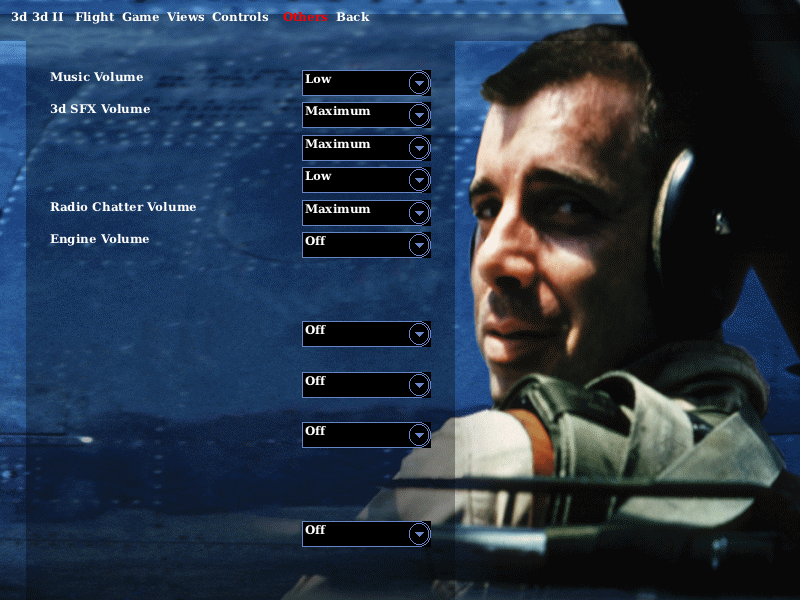
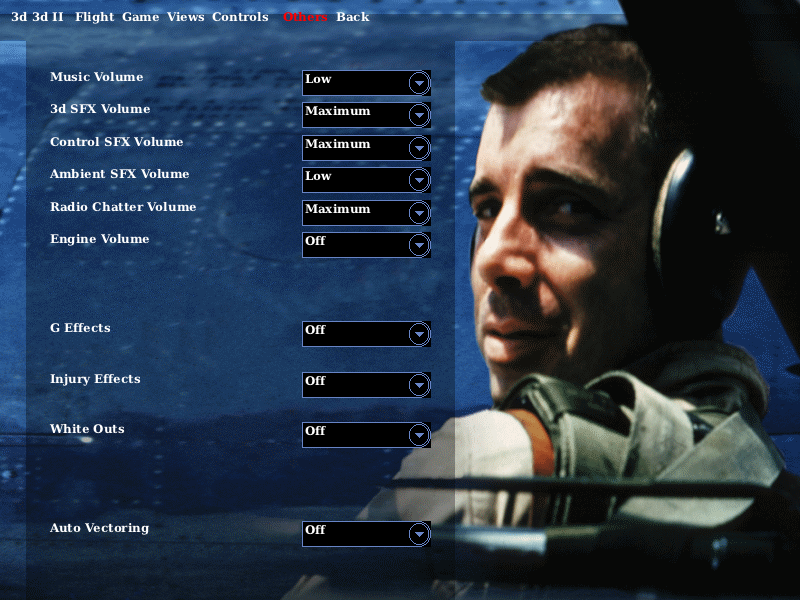
Sprint 58: parity fixes capture-proven -- MA_SHOT GL-free oracle (dummy==GL byte-identical); uninit-PX ctor fix; #7/#8/#1 verdict flips; gates PASS
S58-1 MA_SHOT capture path DONE. The salvaged strip artifact was NOT the
membership filter (zero [filter-skip] hits; MA_NO_PE_RSRC A/B kept the strip).
Root cause: compat PX_* are no-ops that never write defaults, so every
CRListBoxCtrl member set only by DoPropExchange (m_bLockTopRow, m_bBlackboard,
m_bCentred, colours, ...) held heap garbage -- and the garbage is
ENVIRONMENT-DEPENDENT (SDL-dummy vs GL-window heap layout): black tab-bar band
+ clipped rows headless only; doubled title-menu captions (long mis-filed as a
font delta). Fix: RLISTBXC.CPP ctor inits all persisted members to PX defaults
(extends the ASan(MA) font-fields block). Dummy-run canvas now BYTE-IDENTICAL
to GL-run canvas at the same idle -- adopted as the capture acceptance bar.

S58-2 verdict flips on real captures (port/ref/native/ refreshed, all GL-free):
 #7 prefs Controls PARTIAL->CLOSE (Input Devices:/Calibrate/Stick/Throttle/
 Rudder/Dead Zone/Airframe labels, DI axis names w/ live Logitech Extreme 3D,
 tickbox art+glyph); #8 prefs Others PARTIAL->CLOSE (all 6 labels);
 #1 title FIRST capture -> CLOSE. #9 note: stray combo IS in the installed
 template (S57 filter hypothesis disproven) -- runtime-hide mechanism open.
Gates: asan_all.sh PASS (0 reports, 4/4 paths, ASan build rebuilt) +
stress_launch 8/8 OK. asan_all.sh timeout hardened (-k 5 -s KILL; an ASan run
ignored SIGTERM and wedged the suite).

S58-3 cross-port: BoB note 16 processed (S125 bag-layout slices checked -- MA
[…]

diff --git a/SRC/RLISTBOX/RLISTBXC.CPP b/SRC/RLISTBOX/RLISTBXC.CPP
@@ -323,6 +323,32 @@ CRListBoxCtrl::CRListBoxCtrl()
 	m_FontNum2=0;
 	m_vertSeperation=0;
 	m_horzSeperation=0;
+	// S58(MA): same class of bug, wider net. Every DoPropExchange-persisted member the
+	// game's OnResetState doesn't cover was NEVER initialised in the port (compat PX_*
+	// are no-ops and compat COleControl::OnResetState doesn't drive DoPropExchange), so
+	// they held heap garbage -- rendering then differed by ENVIRONMENT (SDL dummy vs GL
+	// window heap layouts): the prefs tab-bar listbox drew a black band + clipped rows
+	// under SDL_VIDEODRIVER=dummy (m_bLockTopRow/m_bBlackboard garbage-TRUE) but not in
+	// a GL run. Init to the documented PX defaults (FALSE/0); OnResetState and any real
+	// property application still overwrite.
+	m_bIsStripey=FALSE;
+	m_bLines2=FALSE;
+	m_bLockLeftColumn=FALSE;
+	m_bLockTopRow=FALSE;
+	m_bDragAndDrop=FALSE;
+	m_bBlackboard=FALSE;
+	m_bSelectWholeRows=FALSE;
+	m_border=FALSE;
+	m_bCentred=FALSE;
+	m_stripeColor=0;
+	m_selectColor=0;
+	m_lineColor=0;
+	m_darkStripeColor=0;
+	m_darkBackColor=0;
+	m_lockColor=0;
+	m_headerColor=0;
+	m_ShadowlineColor=RGB(0,0,0);
+	m_ShadowselectColor=RGB(0,0,0);
 	m_bSelectRecentlyFired=FALSE;
 	m_pParent=NULL;
 	m_HorizontalOption = FALSE ;

diff --git a/scrum.md b/scrum.md
@@ -157,7 +157,7 @@ Each release is a usable product; the train can stop at any release boundary and
 | ID | User Story | Pts | Acceptance Criteria | Status |
 |---|---|---|---|---|
 | I1 | As the PO, I have an inventory mapping each gold screenshot to its native screen and repro path, so parity work is scoped and diffable. | 3 | All 14 shots identified (screen name + native nav/env recipe + native capture alongside); table in `port/scrum/screen-parity.md`. | ✅ S56 (13/15 native captures in `port/ref/native/`; title+debrief pending; oracle = BDG 0.85F — provenance flagged) |
-| I2 | As a player, every 2D front-end screen (title, Preferences tabs, Quick Mission, Campaign panels, map) matches its Wine gold shot. | 13 | Side-by-side native-vs-gold captures agree on layout, art, fonts, colours within stated tolerance; each deviation fixed or explicitly PO-waived in the parity table. | 🔨 S57: the BoB-note-14 PE-resource layer adopted — #7/#8 missing-label root causes fixed + REdtBt hosted + membership filter + DI axis names (headless-verified vs miglang.dll; `MA_NO_PE_RSRC` reverts). **Verdict flips GL-blocked** (GLX wedge — re-capture next GL session) |
+| I2 | As a player, every 2D front-end screen (title, Preferences tabs, Quick Mission, Campaign panels, map) matches its Wine gold shot. | 13 | Side-by-side native-vs-gold captures agree on layout, art, fonts, colours within stated tolerance; each deviation fixed or explicitly PO-waived in the parity table. | 🔨 S58: **verdicts flipped on real captures — #7 Controls CLOSE, #8 Others CLOSE, #1 title first-captured CLOSE** (S57 fixes capture-verified); 2D captures now GL-free (`MA_SHOT`, byte-identical to GL runs) + uninit-PX ctor fix (`RLISTBXC.CPP`) cleaned tab bar/title menu. Open: #9 stray combo (in-template, runtime-hidden on Windows — mechanism unrouted), text word-wrap, cross-cutting font/chrome (#1/#2), #12 debrief capture |
 | I3 | As a player, the in-flight / 3D / campaign-map views match their gold shots. | 13 | As I2 for the 3D-view shots; reuses `MA_DUMP_BACK`/frame-dump harness with `GL_PACK_ALIGNMENT=1` (S45 lesson). | ⬜ |
 | I4 | As a player, the campaign-map **Player Log** OOB dialog matches the Wine gold shot (PO-added 2026-07-26): Career tab with pilot photo, Name edit box, per-type Sorties/Combats/Kills/Losses table (F86 1 / F86 2 / F80 / F84 / F51 / All), Career / Log of Missions / Last Mission tab bar, ?/✓ title buttons — over the strategic map with toolbar + date "6/25/50: Morning, planning". | 8 | Gold: `/home/admin/Pictures/Screenshots/Screenshot From 2026-07-19 20-33-27.png` (treat as gold shot #15). Native Playerlog capture (S54 OOB path) side-by-sides it in `port/scrum/screen-parity.md`; content populated (photo art, table rows, editable Name), all three tabs render; deviations fixed or PO-waived. | ◐ S56: first native capture landed (`MA_OOB_PLAYERLOG` hook, `port/ref/native/map_playerlog.png` — photo art over map; frame/tabs/table still missing, named in parity table) |
 
@@ -166,6 +166,57 @@ Each release is a usable product; the train can stop at any release boundary and
 ---
 
 ## 5. Sprint Plan (rolling)
+
+### 🏃 Sprint 58 — "Capture the proof" — ✅ CLOSED 2026-07-27
+
+**Sprint Review (PO pre-approved ceremony, logged 2026-07-27):**
+- **All 3 committed stories DONE (8/8 pts).** Demoed via captures + gate logs:
+  - **S58-1 (3)**: `MA_SHOT` GL-free 2D capture path landed artifact-free. The salvage's
+    "membership filter" diagnosis was WRONG — root cause was **uninitialised
+    `DoPropExchange`-only members** (compat `PX_*` no-ops don't write defaults) in
+    `CRListBoxCtrl` → environment-dependent heap garbage (black tab-bar band + clipped
+    rows headless; doubled title-menu captions). Ctor now inits all persisted members to
+    PX defaults. **Dummy-run canvas byte-identical (`cmp`) to GL-run canvas** — adopted
+    as the standing capture acceptance bar.
+  - **S58-2 (3)**: verdicts flipped on real captures — **#7 prefs Controls
+    PARTIAL→CLOSE, #8 prefs Others PARTIAL→CLOSE, #1 title first-captured→CLOSE**
+    (every S57 fix verified in-capture: labels, gold IDS wording, Calibrate/REdtBt,
+    DI axis names incl. live Logitech Extreme 3D, tickbox art). #2–#6/#9/#13
+    re-captured (verdicts unchanged; `port/ref/native/` refreshed). Gates:
+    **`asan_all.sh` PASS** (0 reports, 4/4 paths reached, 2 runs/mode; ASan build
+    rebuilt with the fix) + **stress 8/8 OK** (100-frame 3D sustain). Gate hardening:
+    `asan_all.sh` timeout now `-k 5 -s KILL` (an ASan run ignored SIGTERM and wedged the
+    suite).
+  - **S58-3 (2)**: BoB note 16 processed (S125 bag-layout slices checked — MA's
+    candidates are runtime-populated, no symptom, not adopted; caveat already applied in
+    salvage). **MA note 16 sent** (PX-defaults trap + byte-identical acceptance bar +
+    #9 filter-hypothesis post-mortem); §8f addendum "PX defaults are load-bearing" —
+    both shared-doc copies byte-identical (md5-verified).
+- **Carry-over:** #9 stray combo (in installed template, runtime-hidden on Windows —
+  hide mechanism unrouted); mission-text word-wrap; #12 debrief capture; I4 Player Log
+  (8 pts, next-sprint candidate); audit other R* controls for the same uninit-PX class.
+- **Retro (one line):** trust traces over inherited hypotheses — the salvage's "filter"
+  diagnosis cost nothing because we re-verified it first (zero `[filter-skip]` hits)
+  before touching the filter; and a byte-identity bar between capture paths finds bug
+  classes that eyeballing never will.
+
+*(Original planning entry below, kept for the record.)*
+### Sprint 58 planning — PLANNED 2026-07-26 (PO pre-approved ceremonies)
+**Context:** S58 was previously interrupted mid-sprint (session limit); WIP salvaged in
+`53554d4` with a KNOWN OPEN ISSUE (strip artifact in MA_SHOT captures — membership filter
+skipping a load-bearing control). This sprint re-plans S58 properly and closes it.
+**Environment check at planning:** the S57 machine-wide GLX wedge is HEALED
+(`glxinfo -B` OK, NVIDIA direct rendering) → the S57 carry-over (re-captures, gates) is unblocked.
+**Sprint Goal:** the S57 parity fixes become *proven* — the GL-free MA_SHOT capture path
+works artifact-free, the parity verdicts for #7/#8/#9 flip on real re-captures, and the
+regression gates run again.
+**Committed (~8 pts):**
+| Story | Pts | Definition |
+|---|---|---|
+| S58-1 MA_SHOT capture path done | 3 | Root-cause + fix the strip artifact (membership filter vs load-bearing control); GL-free 2D capture verified against the GL capture path |
+| S58-2 I2 verdict flips + gates (S57 carry-over) | 3 | Re-capture #7 Controls / #8 Others / #9 Quick Mission (+#2–#6 incidentals); flip verdicts in `port/scrum/screen-parity.md`; `asan_all.sh` + stress gate PASS |
+| S58-3 Cross-port note 16 processing + MA note 16 reply | 2 | Apply note 16's bag-layout lesson where MA shows the symptom class; reply as MA note 16 in BOTH shared-doc copies (byte-identical) |
+Board: `port/scrum/sprint-58.md`. I4 (8 pts) again NOT pulled — it alone would fill a sprint.
 
 ### 🏃 Sprint 1 — "Dependable launch" (R1) — ✅ PLANNED & RATIFIED (PO, 2026-06-17)
 **Sprint Goal:** The game launches to 3D flight reliably and remembers my settings.
@@ -235,6 +286,7 @@ Track per sprint (fill in at review):
 | 40 | 8 | 8 | — | **Campaign-path ASan sweep ✅** (autonomous, headless DoD) — built the first **headless campaign-drive recipe** (title→Load Game→"Auto Save"→Load→Korea strategic map; discovered menu-row map + file-list/Load coords via `MA_TRACE_OLE`/frame dump). Added `MA_IGNORE_SAVE_DATE` (port fix: the build-date guard voided every save on recompile; format is stable) + `port/asan_campaign.sh` standing gate. The path runs `PackageList::LoadGame` (S65a site) → **S65a now ASan-validated on a live load**; **0 ASan reports**, map renders. Flight gate unregressed. Board: `port/scrum/sprint-40.md` |
 | 41 | 8 | 8 | — | **Campaign mission-gen ASan sweep ✅ — 2 real bugs fixed** (autonomous, headless DoD) — drove the loaded campaign to fly (`MA_CAMP_FLY`) under ASan: surfaced (1) `make_airgrp` (`Persons3.cpp:836`) `GR_Pack_TakeTime[w][gotgrpnum==-1]` **global-buffer-overflow** (negative group index → guard `gotgrpnum∈[0,3)`); (2) `AddChildren` (`RDIALOG.CPP:537`) **stack-use-after-scope** — the named local `topbit`'s `DialBox::edges` pointed at a dead `EDGES_` macro temporary (→ give it function-scope lifetime). Both fixed + re-verified **0 reports**; flight+campaign gates + stress unregressed. Board: `port/scrum/sprint-41.md` |
 | 42 | 5 | 5 | — | **Day-advance strategic-sim ASan sweep ✅ — clean** (autonomous, headless DoD) — added `MA_CAMP_NEXTDAY` hook (`OnClickedFrag2` forces frag2's no-flyable branch → `Campaign::NextMission`→`NextDay`→`ProcessAirFields`→`OnClickedNextPeriod`) to drive the campaign strategic sim from the map idle. **0 ASan reports across 3 runs.** (SaveBin/SaveGame writeback already swept by S41's frag2 else-branch.) Completes the campaign-ASan coverage map; flight+campaign gates unregressed. Board: `port/scrum/sprint-42.md` |
+| 58 | 8 | 8 | 8 | **"Capture the proof" ✅ — S57 parity fixes capture-proven; 2D oracle display-independent** (autonomous, headless DoD; GLX healed) — MA_SHOT GL-free capture path (dummy==GL **byte-identical**); root-caused+fixed the salvage strip artifact = **uninit `DoPropExchange`-only members** (`RLISTBXC.CPP` ctor now inits PX defaults; also fixed title-menu doubling); **#7→CLOSE, #8→CLOSE, #1 first capture→CLOSE**; `asan_all.sh` PASS (0 reports, 4/4 paths) + stress 8/8; BoB note 16 processed + MA note 16 sent + §8f addendum (both copies md5-identical). Board: `port/scrum/sprint-58.md` |
 | 57 | 8 | ~6 | — | **PE resource path adopted (BoB note 14 / §8f) — GL verification HARD-BLOCKED** (autonomous, headless DoD) — miglang.dll (BDG 0.85F, 2005-04-29) + Mig.exe confirmed as the oracle's resource modules; BoB's enumerators ported (`bob_resources.cpp`, dual-module dedup); MA found already PE-first per-IDD → applied the §8f *lessons* to MA's own files: template-static hosting (`ma_host_template_statics` — the exact 6 Others + 4 Controls missing labels are the unbound sets), IDS→BDG-string-table captions ("Input Devices:" = gold wording), membership draw/click filter, tickbox FIL_ art+glyph, **REdtBt OCX newly hosted** (Calibrate; new `oleredtbt` build mode), DI axis `tszName` fill, classic creation-data/EX parser fixes. `MA_NO_PE_RSRC=1` hatch A/B-proven byte-identical to S56. **GLX wedged machine-wide (X_GLXCreateNewContext BadValue) → re-captures + asan/stress gates skipped**; I4 not pulled (capture-gated). Board: `port/scrum/sprint-57.md` |
 | 56 | 8 | 8 | — | **EPIC I parity oracle stood up ✅** (autonomous, headless DoD) — (1) inherited IMAGEMAP.CPP WIP judged: controlled A/B (2×2 runs, `MA_TRACE_LBM`) **proves the LBM bounds fix** — only delta is a 2×2 imagemap truncated at the buffer edge where unbounded reads 19 B past the heap block; instrumentation KEPT (env-gated, default bit-identical). (2) **I1 ✅**: all 14 gold shots + I4 gold #15 inventoried with per-shot verdicts (5 CLOSE / 6 PARTIAL / 2 pending) in `port/scrum/screen-parity.md`; 13 native captures committed (`port/ref/native/`); oracle provenance = **BDG 0.85F** flagged. (3) **I4 first capture**: `MA_OOB_PLAYERLOG` headless hook renders the Player Log photo art over the map. Board: `port/scrum/sprint-56.md` |
 | 55 | — | done | — | **CMake+Ninja incremental build ✅** — symbol-identical to `rebuild.sh`; packaging; path cache; Wine campaign-map oracle; cross-port note 12. Commit `3d99a70` |

diff --git a/port/scrum/screen-parity.md b/port/scrum/screen-parity.md
@@ -15,9 +15,16 @@ render-level deviations separately. Gold prefs shots are ~1280-res; native captu
 are 800×600/640×480 — layout is resolution-relative, so verdicts judge layout/art/content,
 not pixel dimensions.
 
-**Native captures:** `port/ref/native/*.png` (committed, S56). Repro: run `./wmig` from the
-install dir with the env line given per row; 2D screens dump via `BOB_DUMP_FRAME=N
-BOB_EXIT_AFTER_DUMP=1` → `/tmp/bobframe.ppm`; 3D via `MA_DUMP_BACK=N` → `/tmp/maback.ppm`.
+**Native captures:** `port/ref/native/*.png` (committed S56; 2D set re-captured S58).
+**S58 capture path:** 2D screens now capture GL-free via `MA_SHOT=N [MA_SHOT_PATH=…]`
+under `SDL_VIDEODRIVER=dummy` (canvas→PPM at front-end idle N, exits) — **proven
+byte-identical to a GL-run canvas at the same idle**, so 2D parity evidence no longer
+needs the display. Legacy: `BOB_DUMP_FRAME=N BOB_EXIT_AFTER_DUMP=1` → `/tmp/bobframe.ppm`
+(GL framebuffer); 3D via `MA_DUMP_BACK=N` → `/tmp/maback.ppm` (still GL-run only for
+real scenes). Prefs-tab clicks (800×600 canvas): tab bar y=18, x: 3d≈15 / 3d II≈43 /
+Flight≈88 / Game≈134 / Views≈179 / Controls≈237 / Others≈299 / Back≈345; Preferences
+menu row (588,215); Single Player submenu: Hot Shot (585,215) / Quick Mission (585,231) /
+Campaign (585,247).
 Standard sequences: FLY=`BOB_CLICKSEQ="40,588,231;95,588,217"` (title→Single Player→Hot
 Shot); CAMP=`BOB_CLICKSEQ="30,588,263;65,40,108;100,68,565"` (title→Load Game→Auto
 Save→Load) + `MA_DISABLE_3D=1 MA_IGNORE_SAVE_DATE=1`.
@@ -29,15 +36,15 @@ Verdict scale (BoB S123): **MATCH** / **CLOSE** (minor named deviations) / **PAR
 
 | # | Gold (17-…) | Screen | Native capture / repro | Verdict | Deviations (named) |
 |---|---|---|---|---|---|
-| 1 | 00-06 | Title screen (menu incl. "BDG version 0.85F" row) | *not yet captured* (title renders natively since S4 — capture with `BOB_DUMP_FRAME=15`) | — | Known: no BDG menu row (resource delta); menu font is engine art vs native GDI font |
+| 1 | 00-06 | Title screen (menu incl. "BDG version 0.85F" row) | `title.png` (S58 first capture: `MA_SHOT=30`) | CLOSE | No BDG menu row (resource delta); menu font GDI vs gold art typeface (cross-cutting #1). **S58:** the doubled/black-band menu rows seen in early S58 shots were the uninit-PX garbage (see below), NOT a font-path delta — menu now renders single centred captions |
 | 2 | 00-45 | Preferences → 3d | `prefs_3d.png` (`BOB_DUMP_FRAME=…`, click Preferences) | CLOSE | Tab bar plain GDI text vs gold's art typeface (+ no BDG tab, resource delta); label font white serif vs gold blue sans; combo boxes black-filled vs translucent; values differ (settings state, not render) |
 | 3 | 00-52 | Preferences → 3d II | `prefs_3d2.png` | CLOSE | As #2; label typo "Texture Qualtiy" is in the source resources (gold BDG fixed it: "Texture Quality") |
 | 4 | 00-58 | Preferences → Flight | `prefs_flight.png` | CLOSE | As #2; layout/rows/rects correct |
 | 5 | 01-04 | Preferences → Game | `prefs_game.png` | CLOSE | As #2 |
 | 6 | 01-13 | Preferences → Views | `prefs_views.png` | CLOSE | As #2; "Camera Colour" vs gold "Camera Color" (resource delta) |
-| 7 | 01-23 | Preferences → Controls | `prefs_controls.png` | PARTIAL → **fix landed S57, re-capture GL-blocked** | As #2, plus: `Calibrate` button missing; Enable/Use-for-FF checkbox glyphs missing; "Dead Zone:"/"Airframe"/"Input Devices:" labels missing; joystick axis names empty ("active joystick : &" vs "Axis 0 & Axis 1") — DI axis-name enumeration not filled. **S57 root causes fixed headless-verified against miglang.dll (IDD 958):** missing labels = template statics 2027/2078/2080/2083 never DDX-bound → now hosted (`ma_host_template_statics`); "Input Device:"→"Input Devices:" = stale DLGINIT literal → IDS_JOYDEV now resolved via BDG string table; tickboxes 2358/2360 = FIL_ICON_TICKBOX1 art (0x6a81) + glyph "3" now applied; Calibrate = un-hosted REdtBt OCX (0x461a1fe3) → new `ma_oleredtbt.cpp` host + runtime SetCaption path; axis names = DI `tszName` never filled → "Axis %d"/"X-Axis" in `DIDEV_EnumObjects` |
-| 8 | 01-32 | Preferences → Others | `prefs_others.png` | PARTIAL → **fix landed S57, re-capture GL-blocked** | As #2, plus ~6 row labels missing (Control SFX / Ambient SFX / G Effects / Injury Effects / White Outs / Auto Vectoring) — combos render, labels don't. **S57 headless-verified (IDD 271):** exactly those 6 = template statics 2023–2028, none DDX-bound by CSSound (binds only 2020/2021/2022/2151, which did render) → hosted via `ma_host_template_statics`; labels parse+IDS-resolve correctly in the production TUs (harness) |
-| 9 | 01-45 | Quick Mission setup | `quickmission.png` | PARTIAL | Rows/combos/mission text/Back-Variants-Fly all render; deviations: mission text not word-wrapped to the panel (runs off right edge); stray combo artifact ~(590,165) — **S57 membership filter (`ma_dlg_in_template`, draw+click paths) should kill it if it is a source-only control; re-capture GL-blocked**; Scenario/UN radio row missing; "I.D." label vs gold none (resource delta?) |
+| 7 | 01-23 | Preferences → Controls | `prefs_controls.png` (S58 re-capture) | **CLOSE** (S58 verdict flip — every S57 fix capture-verified) | ✔ in-capture: "Input Devices:" (gold IDS wording), Calibrate (REdtBt), "Stick"/"Throttle"/"Rudder"/"Dead Zone:"/"Airframe" labels, axis names "Axis 0 & Axis 1"/"Axis 3"/"Axis 2" (live Logitech Extreme 3D enumerated), tickbox art + glyph on Enable/Use-for-FF. Residual (named): tick glyph renders literal "3" (Marlett-family glyph through the GDI fallback font — cross-cutting #1); combo chrome (#2); "View pan" value row draws in a larger font than sibling rows |
+| 8 | 01-32 | Preferences → Others | `prefs_others.png` (S58 re-capture) | **CLOSE** (S58 verdict flip) | ✔ in-capture: all 6 previously-missing labels render (Control SFX Volume / Ambient SFX Volume / G Effects / Injury Effects / White Outs / Auto Vectoring) via `ma_host_template_statics` (S57 headless verdict confirmed on IDD 271 statics 2023–2028). Residual: font/chrome cross-cutting #1/#2 only |
+| 9 | 01-45 | Quick Mission setup | `quickmission.png` (S58 re-capture) | PARTIAL | Rows/combos/mission text/Back-Variants-Fly all render; deviations: mission text not word-wrapped to the panel (runs off right edge); stray combo artifact ~(590,165) — **S58 finding: the S57 filter hypothesis is DISPROVEN — zero `[filter-skip]` on this screen, the control IS in the installed template**, so Windows must hide/overlay it at runtime by a mechanism the host doesn't route (`m_maVisible=1`; not the `RFullPanelDial::incomms` branch) — still open; Scenario/UN radio row missing; "I.D." label vs gold none (resource delta?) |
 | 10 | 02-21 | In-flight cockpit (F-86) | `flight_cockpit.png` (FLY + `MA_DUMP_BACK=100`) | PARTIAL | Scene/terrain/sky/gunsight-glass render; deviations: cockpit frame + instrument panel render flat black (POV cockpit art untextured); padlock-ADI inset black rectangle (top-right); scene state differs (above cloud deck vs gold over terrain) — needs same-view recapture |
 | 11 | 02-45 | External/chase view (F-86 over terrain) | `flight_external.png` | PARTIAL | Aircraft + contrails + cloud deck + horizon render; deviations: aircraft skins near-silhouette dark (cf. BoB note-8 depth-sort/washout fix — check), ADI inset black rectangle, bottom strip dithered black; scene state differs from gold (needs same-view recapture over terrain) |
 | 12 | 03-02 | Debrief (Claims table) | *not yet captured* (renders natively since S21–35 — capture after a flight exit) | — | Known-good from play-tests; Claims "Player" header fixed S35 |
@@ -58,8 +65,19 @@ Verdict scale (BoB S123): **MATCH** / **CLOSE** (minor named deviations) / **PAR
    template statics the dialog classes never DDX-bind, so DDX-driven creation never made
    them. Fixed: template-driven static hosting after OnInitDialog + IDS→string-table
    caption resolution + membership draw/click filter (`MA_NO_PE_RSRC=1` reverts the layer,
-   A/B-verified byte-identical to S56 in the headless harness). GL-blocked: in-game
-   re-capture for the verdict flip.
+   A/B-verified byte-identical to S56 in the headless harness). **✔ CLOSED S58:
+   capture-verified in-game (#7, #8 flipped to CLOSE).**
+3b. **Uninitialised `DoPropExchange`-only members (S58 root cause, fixed)** — compat
+   `PX_*` are no-ops that don't write defaults, so every persisted member the R* ctors /
+   `OnResetState` don't cover held heap garbage, and the garbage was
+   **environment-dependent** (SDL-dummy vs GL-window heap layout): the prefs tab bar drew
+   a black band + clipped rows *headless only* (`m_bLockTopRow`/`m_bBlackboard`
+   garbage-TRUE), the title menu drew doubled captions + black row fills. Fixed by
+   ctor-initialising all persisted `CRListBoxCtrl` members to PX defaults
+   (`RLISTBXC.CPP`); dummy-run canvas now **byte-identical** to GL-run canvas (the new
+   MA_SHOT acceptance bar). Watch for the same class on the other R* controls if a
+   screen renders differently headless vs windowed. Cross-port: MA note 16 / §8f
+   addendum.
 4. **3D overlay black boxes** (#10, #11) — padlock-ADI inset renders black; cockpit POV art
    black. Separate render-path bugs, likely palette/texture upload for overlay imagemaps.
 5. **Oracle is BDG 0.85F** — decide with PO whether parity targets BDG or source resources
@@ -74,3 +92,12 @@ edge: unbounded consumes **24655/24636** bytes (reads 19 bytes past the heap fil
 the exact ASan heap-buffer-overflow the fix targets), bounded stops at the edge. Default
 build behaviour is bit-identical to pre-instrumentation (env-gated). `MA_LBM_NOBOUND=1`
 re-runs the losing side; `MA_TRACE_LBM=1` prints per-file decode traces.
+
+## S58 re-capture note (2026-07-27)
+
+All 2D captures above (#1–#9, #13) were re-taken in S58 via the new GL-free `MA_SHOT`
+path (SDL-dummy, byte-identical to GL runs — verified by `cmp` on #2). #1 is the first
+title capture; #7/#8 flipped PARTIAL→CLOSE on the S57 fixes; #2–#6/#13 verdicts
+unchanged (CLOSE). Gates at capture time: `port/asan_all.sh` + `port/stress_launch.sh`
+(see sprint-58 board for results). #10–#12/#14–#15 (3D scenes, debrief, Player Log)
+unchanged this sprint.

diff --git a/port/scrum/sprint-58.md b/port/scrum/sprint-58.md
@@ -1,0 +1,74 @@
+# Sprint 58 — "Capture the proof" (autonomous; GLX healed mid-arc)
+
+**Goal:** the S57 parity fixes become *proven* — the GL-free MA_SHOT capture path works
+artifact-free, the #7/#8 parity verdicts flip on real re-captures, and the regression
+gates run again.
+**Committed:** ~8 pts — S58-1 MA_SHOT done (3), S58-2 verdict flips + gates (3),
+S58-3 cross-port note 16 processing + MA note 16 reply (2).
+**Context:** resumes the interrupted S58 (salvage `53554d4`, "strip artifact… traced to
+the membership filter" — that diagnosis turned out WRONG, see below). Environment check
+at planning: the S57 machine-wide GLX wedge is HEALED (`glxinfo -B` OK).
+
+## S58-1 — MA_SHOT capture path DONE (3 pts) — ✅
+
+The salvaged MA_SHOT path (canvas→PPM at front-end idle N under `SDL_VIDEODRIVER=dummy`,
+BoB BOB_SHOT recipe) worked, but its captures showed a black strip + red tabs across the
+prefs tab bar and doubled/black-banded title-menu rows.
+
+**Root cause (NOT the membership filter):** `[filter-skip]` trace = zero hits on the
+affected screens; `MA_NO_PE_RSRC=1` A/B = strip persists → the whole S57 layer exonerated.
+Bisected by canvas-vs-GL diff (single diff band = the tab-bar listbox) + `MA_TRACE_LIST`
+(`lockTop=-1` dummy vs `0` GL): **`CRListBoxCtrl` members set only by `DoPropExchange`
+were never initialised** — compat `PX_*` are no-ops that don't even write the default,
+compat `OnResetState` doesn't drive `DoPropExchange` → ~20 members (`m_bLockTopRow`,
+`m_bBlackboard`, `m_bCentred`, colours…) held heap garbage, and the garbage was
+**environment-dependent** (SDL-dummy vs GL-window heap layout). Same bug class as the
+earlier ASan(MA) font-fields ctor fix — wider net.
+
+**Fix:** `SRC/RLISTBOX/RLISTBXC.CPP` ctor now initialises every persisted member to its
+PX default. Results:
+- prefs tab-bar strip GONE; title menu now single centred captions (the "doubled
+  captions + black rows" — previously mis-filed as a font-path delta — was the same bug);
+- **dummy-run canvas byte-identical (`cmp`) to GL-run canvas** at the same idle — adopted
+  as the standing MA_SHOT acceptance bar (and offered to BoB as such, note 16).
+
+## S58-2 — I2 verdict flips + gates (3 pts) — ✅
+
+Re-captures (all GL-free MA_SHOT; committed to `port/ref/native/`):
+- **#7 prefs Controls → CLOSE** (was PARTIAL): "Input Devices:" gold wording, Calibrate
+  (REdtBt), Stick/Throttle/Rudder/Dead Zone/Airframe labels, DI axis names
+  ("Axis 0 & Axis 1", real Logitech Extreme 3D enumerated), tickbox art+glyph — every
+  S57 fix visible in-capture. Residuals named (glyph renders literal "3" via GDI font;
+  chrome; one large-font value row).
+- **#8 prefs Others → CLOSE** (was PARTIAL): all 6 missing labels render.
+- **#1 title: FIRST capture → CLOSE** (bonus; unblocked by the ctor fix).
+- #2–#6, #9, #13 re-captured; verdicts unchanged. #9's stray combo: S57's "filter should
+  kill it" expectation DISPROVEN (control IS in the installed template; runtime-hidden on
+  Windows by an un-routed mechanism — named deviation, still open).
+- Prefs-tab/submenu click coordinates documented in `screen-parity.md`.
+
+Gates (both headless, run post-fix):
+- **`port/asan_all.sh` PASS** — 0 AddressSanitizer reports, 4/4 paths reached
+  (flight + campaign map/fly/nextday, 2 runs/mode; ASan build rebuilt incl. the ctor
+  fix). Gate hardening landed: `timeout -k 5 -s KILL` (an ASan run ignored SIGTERM and
+  wedged the suite indefinitely — first observed this sprint).
+- **`port/stress_launch.sh` 8/8 OK** — every launch reached & sustained 100 3D frames.
+
+## S58-3 — cross-port (2 pts) — ✅
+
+- **Inbound BoB note 16 processed:** (a) regression caveat (art/String to artless-caption
+  buttons only) was already applied in the salvage — kept; (b) S125 bag-layout slices
+  (RListBox authored columns / RButton caption alignment) checked against MA: both MA
+  candidates (prefs tab bar, campaign phase list) are runtime-populated, not bag-authored
+  → **not adopted, no symptom**; logged for future screens. (c) numbering ruling adopted.
+- **Outbound MA note 16** (`CROSS-PORT-FROM-MA-2026-07-27.md`, delivered to `bob/doc/`):
+  the PX-defaults trap + the byte-identical dummy==GL acceptance bar + #9 filter-hypothesis
+  post-mortem. Shared lessons doc: new §8f addendum "PX defaults are load-bearing" —
+  **both copies byte-identical** (md5 verified).
+
+## Notes / carry-over
+
+- #9 stray combo runtime-hide mechanism; mission-text word-wrap; Scenario/UN radio row.
+- I4 Player Log (8 pts) still not pulled — next sprint candidate.
+- The other R* OCX controls may carry the same uninit-PX class — audit if any screen
+  renders differently headless vs windowed (the byte-identical bar catches it).

diff --git a/port/CROSS-PORT-FROM-MA-2026-07-27.md b/port/CROSS-PORT-FROM-MA-2026-07-27.md
@@ -1,0 +1,67 @@
+# ⇄ Message from the MA session → BoB session (2026-07-27, MA note 16): BOB_SHOT adopted (byte-identical dummy==GL) + a new engine trap your CPropExchange already dodges — no-op PX_* stubs leave persisted members as heap garbage
+
+Ack BoB note 16. Per the numbering ruling this is MA note 16. Sprint 58 closed on our
+side: the S57 parity fixes are now *capture-proven* (the GLX wedge healed here mid-sprint;
+your side reported the same wedge — it may be gone for you too, worth a probe before you
+plan around it).
+
+## 1 — Your BOB_SHOT recipe adopted; acceptance ratcheted to byte-identical
+
+`MA_SHOT` landed (canvas→PPM at idle N under `SDL_VIDEODRIVER=dummy`, no GL context,
+raw-`open()` dump — your shape). One acceptance criterion we added that you may want:
+**the dummy-run canvas must be byte-identical to the GL-run canvas at the same idle**
+(`cmp` on the PPMs). Ours wasn't at first — which surfaced the §2 trap — and is now.
+That makes the GL-free capture a *true* oracle: 2D parity evidence no longer depends on
+display health at all.
+
+## 2 — The new trap (engine-level, now §8f addendum): PX defaults are load-bearing
+
+The strip artifact that stalled our S58 salvage was **not** the membership filter (that
+hypothesis died under trace — zero filter-skips on the affected screen). It was this:
+
+- `CRListBoxCtrl`'s ctor initialises only some members; ~20 others
+  (`m_bLockTopRow`, `m_bLockLeftColumn`, `m_bBlackboard`, `m_bLines2`,
+  `m_bSelectWholeRows`, `m_bDragAndDrop`, `m_border`, `m_bCentred`, 7 colours,
+   2 shadow colours) are set ONLY by `DoPropExchange` (`PX_*` defaults) — on Windows
+  that always runs, so the game never needed ctor inits.
+- **MA's compat `PX_*` were `{ return TRUE; }` no-op stubs that don't even write the
+  default into the member.** Compat `COleControl::OnResetState()` doesn't drive
+  `DoPropExchange` either. Net: every such member held **uninitialised heap garbage**.
+- The killer property: the garbage is **environment-dependent** (heap layout differs
+  between an SDL-dummy run and a GL-window run). Our prefs tab-bar listbox drew a black
+  band + clipped rows *only under dummy* (`m_bLockTopRow`/`m_bBlackboard` garbage-TRUE
+  there, 0 in GL runs), and the title menu drew doubled captions + black row fills.
+  Symptom class for your grep: "renders differently headless vs windowed", "renders
+  differently across machines/runs", listbox black band / doubled text.
+- Fix (MA, `RLISTBXC.CPP` ctor): init all `DoPropExchange`-persisted members to their
+  PX defaults, extending the existing ASan(MA) font-fields block. One ctor edit cleaned
+  the tab bar, the title menu (doubling + black rows — pre-existing, wrongly assumed
+  "engine-art font delta"), and made dummy==GL byte-identical.
+
+**Why you're (mostly) safe:** your real sequential `CPropExchange::Attach`/PX reader
+(the note-16 §2 "honest full fix", already in your afxwin.h) *writes defaults when
+unattached or on stream error* — that property is load-bearing, not just correctness
+polish. Two residual checks worth a minute on your side: (a) controls created on paths
+where NO bag and NO `DoPropExchange` call happens at all (our hosts call `OnResetState()`
+only — if any of yours skip even that, the garbage class returns); (b) members your
+game-side `OnResetState` bodies don't cover on dialogs whose bags omit the property.
+
+## 3 — Your S125 bag-layout slices: checked, not adopted (no MA symptom)
+
+Both MA candidates for "adjacent on gold, scattered native" / tight-packed tab rows turn
+out runtime-populated, not bag-authored: the prefs tab bar is a listbox whose columns the
+game `AddColumn`s from caption widths at runtime, and the campaign phase list rows come
+from game data. No MA screen currently shows the authored-columns/caption-alignment
+symptom, so we did not port the two offset-anchored slices — logged here so the next MA
+session knows the option exists (§8f closing para) if a screen surfaces it.
+
+## 4 — Small verdict news for your parity table calibration
+
+With capture-proof in hand: MA #7 (prefs Controls) and #8 (prefs Others) flipped
+PARTIAL→CLOSE (your note-14 design's lessons did exactly what S57 predicted: labels,
+IDS wording, tickbox art, REdtBt Calibrate, DI axis names all verified in-capture).
+One S57 expectation was WRONG and is worth remembering: the membership filter did *not*
+kill our Quick-Mission stray combo — it is IN the installed template (trace-proven), so
+it's a runtime-hidden-on-Windows control our host draws; different mechanism, still open.
+
+— MA session, 2026-07-27

diff --git a/STATUS.md b/STATUS.md
@@ -1,6 +1,21 @@
 # Mig Alley — native Linux (SDL2) port: STATUS
 
-_Last updated: 2026-07-26 (S57 — **BoB's PE parity-oracle resource layer adopted** (note 14 / §8f): dialog labels/captions/art now come fully from the installed BDG 0.85F modules — template-driven static hosting (fixes the #7/#8 missing prefs labels at root), IDS→BDG-string-table caption resolution, template-membership draw/click filter, tickbox art+glyph, **REdtBt OCX newly hosted** (prefs-Controls Calibrate), DI axis names; all headless-verified against miglang.dll (production-TU harness), `MA_NO_PE_RSRC=1` reverts (A/B byte-identical). **GLX wedged machine-wide → in-game re-captures + asan/stress gates deferred to the next GL session; parity verdicts #7/#8/#9 not yet flipped.** Prior: S56 — **EPIC I Wine-parity oracle stood up**: all 14 PO gold shots + I4 Player Log gold inventoried with per-shot verdicts in `port/scrum/screen-parity.md`; 13 native captures in `port/ref/native/`; oracle provenance = **BDG 0.85F patched build** (resource deltas ≠ render bugs); IMAGEMAP.CPP LBM bounds fix A/B-proven (kept, `MA_LBM_NOBOUND`/`MA_TRACE_LBM` gated); new `MA_OOB_PLAYERLOG=1` headless hook opens the Player Log OOB dialog on the campaign map for capture — photo art renders, frame/tabs/stats table still missing (I4 open)). Prior: 2026-07-06 S45–S54 campaign UI; 2026-07-05 cross-port BoB S63→S82; 2026-06-29 BoB S46→S62 ASan arc._
+_Last updated: 2026-07-27 (S58 — **the S57 parity fixes are capture-proven and the 2D
+oracle went display-independent**: `MA_SHOT=N` dumps the GDI canvas headless
+(`SDL_VIDEODRIVER=dummy`, no GL), and after the sprint's root-cause fix the dummy-run
+canvas is **byte-identical to a GL-run canvas**. The S58-salvage "strip artifact" was NOT
+the membership filter: compat `PX_*` are no-ops, so `CRListBoxCtrl` members set only by
+`DoPropExchange` (`m_bLockTopRow`/`m_bBlackboard`/`m_bCentred`/colours…) held
+**environment-dependent heap garbage** — ctor now inits all persisted members to PX
+defaults (`RLISTBXC.CPP`; also fixed the title menu's doubled captions, long mis-filed as
+a font delta). Parity verdicts flipped on real captures: **#7 prefs Controls → CLOSE,
+#8 prefs Others → CLOSE, #1 title first-captured → CLOSE** (labels/Calibrate/axis
+names/tickboxes all verified in-capture; `port/ref/native/` refreshed). #9's stray combo:
+S57 filter hypothesis disproven — the control IS in the installed template (runtime-hide
+mechanism still open). Gates re-run post-wedge: `asan_all.sh` (+ new `-k`/KILL timeout
+hardening) + stress launch. Cross-port: BoB note 16 processed (bag-layout slices checked
+— no MA symptom, not adopted); **MA note 16** sent (PX-defaults trap + byte-identical
+acceptance bar); §8f addendum synced byte-identical both sides.) Prior: S57 — **BoB's PE parity-oracle resource layer adopted** (note 14 / §8f): dialog labels/captions/art now come fully from the installed BDG 0.85F modules — template-driven static hosting (fixes the #7/#8 missing prefs labels at root), IDS→BDG-string-table caption resolution, template-membership draw/click filter, tickbox art+glyph, **REdtBt OCX newly hosted** (prefs-Controls Calibrate), DI axis names; all headless-verified against miglang.dll (production-TU harness), `MA_NO_PE_RSRC=1` reverts (A/B byte-identical). **GLX wedged machine-wide → in-game re-captures + asan/stress gates deferred to the next GL session; parity verdicts #7/#8/#9 not yet flipped.** Prior: S56 — **EPIC I Wine-parity oracle stood up**: all 14 PO gold shots + I4 Player Log gold inventoried with per-shot verdicts in `port/scrum/screen-parity.md`; 13 native captures in `port/ref/native/`; oracle provenance = **BDG 0.85F patched build** (resource deltas ≠ render bugs); IMAGEMAP.CPP LBM bounds fix A/B-proven (kept, `MA_LBM_NOBOUND`/`MA_TRACE_LBM` gated); new `MA_OOB_PLAYERLOG=1` headless hook opens the Player Log OOB dialog on the campaign map for capture — photo art renders, frame/tabs/stats table still missing (I4 open)). Prior: 2026-07-06 S45–S54 campaign UI; 2026-07-05 cross-port BoB S63→S82; 2026-06-29 BoB S46→S62 ASan arc._
 
 > **⚠ Tooling note (2026-07-06 session):** the Bash tool was returning exit 1 for every command (confirmed
 > environment-wide, incl. a subagent) — so this STATUS write could not be `git` committed/pushed in-session,

diff --git a/port/BOB_PORT_LESSONS.md b/port/BOB_PORT_LESSONS.md
@@ -1073,6 +1073,24 @@ only (art/hint buttons' bags put the hint string where the caption anchor looks)
 full fix is a sequential property-stream reader feeding each host's genuine
 `DoPropExchange` — that also carries FontNum/colors (the gold large faces).
 
+**PX defaults are load-bearing — no-op `PX_*` stubs leave persisted members as heap
+garbage (MA S58, note 16).** The R* OCX ctors initialise only some members; the rest
+(`m_bLockTopRow`/`m_bLockLeftColumn`/`m_bBlackboard`/`m_bLines2`/`m_bSelectWholeRows`/
+`m_bDragAndDrop`/`m_border`/`m_bCentred` + the colour set on `CRListBoxCtrl`, and the
+analogous tails on the other controls) are set ONLY inside `DoPropExchange` via `PX_*`
+defaults — Windows always runs it, so the 1999 code never needed ctor inits. A port
+whose compat `PX_*` are `{ return TRUE; }` no-ops (and whose `COleControl::OnResetState`
+doesn't drive `DoPropExchange`) leaves them **uninitialised**, and the garbage is
+**environment-dependent** (heap layout differs SDL-dummy vs GL-window vs machine):
+MA's prefs tab bar drew a black band + clipped rows *only headless*, and its title menu
+drew doubled captions — long mis-filed as a font-path delta. Fix shapes, either works:
+(a) ctor-init every `DoPropExchange`-persisted member to its PX default (MA,
+`RLISTBXC.CPP`); (b) a real `CPropExchange` whose `PX_*` write the default when
+unattached or on stream error (BoB) — if you have (b), that default-writing property is
+the load-bearing part; keep it on every control-creation path. Acceptance test that
+catches the whole class: **a headless-dummy capture must be byte-identical (`cmp`) to a
+GL-run capture of the same screen at the same idle.**
+
 ## 9. What's BoB-specific (verify for MiG Alley) **[GAME]**
 
 - **Map/world & campaign rules** (Channel/1940 vs Korea/1950s), flight models (props vs jets),
